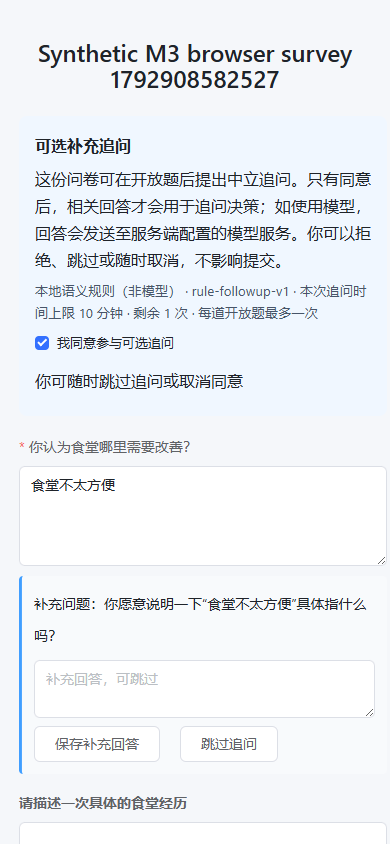
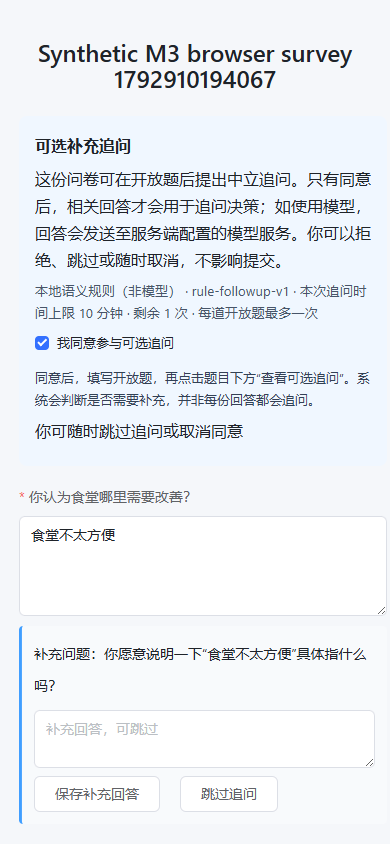
fix(tduck): clarify followup entry and explain skipped evaluations

diff --git a/tduck-vue3/src/td/generator/GenerateForm.vue b/tduck-vue3/src/td/generator/GenerateForm.vue
@@ -5,6 +5,7 @@
       <p>这份问卷可在开放题后提出中立追问。只有同意后，相关回答才会用于追问决策；如使用模型，回答会发送至服务端配置的模型服务。你可以拒绝、跳过或随时取消，不影响提交。</p>
       <small>{{providerLabel}} · 剩余 {{followupRemaining}} 次 · 每道开放题最多一次</small>
       <el-checkbox v-model="followupConsent" :disabled="!followupReady" @change="changeFollowupConsent">我同意参与可选追问</el-checkbox>
+      <p class="followup-guide">同意后，填写开放题，再点击题目下方“查看可选追问”。系统会判断是否需要补充，并非每份回答都会追问。</p>
       <p v-if="followupNotice" role="status">{{followupNotice}}</p>
     </section>
     <template v-for="(field,i) in shown" :key="field.config.formId">
@@ -15,8 +16,9 @@
         <QuestionField v-model="formModel[field.config.formId]" :models="formModel" :item="field" :form-key="formConf.formKey" :disabled="formConf.disabled"/>
         <section v-if="followupEnabled && field.typeId==='TEXTAREA' && followupAllowed.includes(field.config.formId)" class="followup-panel" :data-followup-for="field.config.formId">
           <template v-if="!followupDecisions[field.config.formId]">
-            <el-button v-if="followupConsent" :disabled="!followupReady || !String(formModel[field.config.formId]||'').trim()" :loading="followupBusy[field.config.formId]" @click="evaluateFollowup(field)">继续此题（可选追问）</el-button>
-            <small v-else>已选择只填核心题，追问不会影响提交。</small>
+            <el-button type="primary" :disabled="!followupConsent || !followupReady || !String(formModel[field.config.formId]||'').trim()" :loading="followupBusy[field.config.formId]" @click="evaluateFollowup(field)">查看可选追问</el-button>
+            <small v-if="!followupConsent" class="followup-entry-hint">如需补充问题，请先勾选上方“我同意参与可选追问”；也可直接提交核心问卷。</small>
+            <small v-else-if="!String(formModel[field.config.formId]||'').trim()" class="followup-entry-hint">先填写本题，再点击按钮查看是否需要补充。</small>
           </template>
           <template v-else-if="followupDecisions[field.config.formId].state==='ASKED'">
             <p class="followup-question">补充问题：{{followupDecisions[field.config.formId].questionText}}</p>
@@ -27,7 +29,7 @@
           <small v-else-if="followupDecisions[field.config.formId].state==='REPLIED'">补充回答已保存，原回答保持独立。</small>
           <small v-else-if="followupDecisions[field.config.formId].state==='DECLINED'">已跳过，不会再弹出同一追问。</small>
           <small v-else-if="['MODEL_FAILURE','INVALID_MODEL_OUTPUT','NO_KEY'].includes(followupDecisions[field.config.formId].reasonCode)">追问服务暂不可用，本题已跳过，不影响提交。</small>
-          <small v-else>本题不再追问，可继续填写。</small>
+          <small v-else>{{followupSkipMessage(followupDecisions[field.config.formId])}}</small>
         </section>
       </el-form-item>
     </template>
@@ -54,6 +56,10 @@ const {enabled:followupEnabled,consent:followupConsent,ready:followupReady,notic
 const resolvedOptions=reactive({})
 provide('tdResolvedOptions',resolvedOptions)
 const safe=value=>DOMPurify.sanitize(String(value||''))
+function followupSkipMessage(decision){
+  const messages={NO_CLEAR_INFORMATION_GAP:'规则模式未识别到补充方向，本次未生成追问；可继续填写。',CONCRETE_CONTEXT:'这段回答已包含具体情境，本次不再追问。',BUDGET_EXHAUSTED:'本卷追问次数已用完，本题不再追问。',TIME_BUDGET:'本次追问时间已到，本题不再追问。',RESPONDENT_DECLINED:'已按你的拒答意愿跳过本题追问。',PRIVACY_RISK:'这段回答可能含敏感信息，已跳过追问。',NO_CONSENT:'当前未同意追问，可继续填写核心问卷。'}
+  return messages[decision.reasonCode]||'本次判断无需补充，可继续填写。'
+}
 watch(()=>props.formConf.fields,fields=>{
   for(const f of fields||[]){
     const id=f.config.formId
@@ -97,6 +103,7 @@ defineExpose({formModel,submit,reset,getAnswers,validate:()=>check(visible.value
 <style scoped>
 .followup-consent{grid-column:span 24;padding:16px;margin-bottom:20px;background:#f0f7ff;border-radius:8px;line-height:1.7}
 .followup-consent p{margin:6px 0}.followup-consent small{display:block;color:#475569}.followup-consent .el-checkbox{white-space:normal;height:auto;min-height:36px}
+.followup-guide{font-size:13px;color:#334155}.followup-entry-hint{display:block;margin-top:8px;line-height:1.7}
 .followup-panel{width:100%;padding:12px;margin-top:10px;box-sizing:border-box;background:#f8fafc;border-left:3px solid #409eff;border-radius:4px}
 .followup-panel small{color:#64748b}.followup-question{margin:0 0 8px}.followup-actions{display:flex;flex-wrap:wrap;gap:8px;margin-top:8px}
 </style>

diff --git a/tduck-vue3/src/td/generator/followup.js b/tduck-vue3/src/td/generator/followup.js
@@ -39,7 +39,7 @@ export function useFollowup(props,formModel){
       const response=await client.get('/form/followup/info',{params:{formKey:conf.formKey,versionToken:conf.versionToken||''}})
       if(current!==revision||response.data?.code!==200||!response.data.data?.enabled)return
       const policy=response.data.data;enabled.value=true;allowed.value=policy.allowedQuestionIds||[];remaining.value=policy.totalBudget
-      providerLabel.value=[policy.providerInfo?.provider,policy.providerInfo?.model,`本次追问时间上限 ${Math.ceil(policy.timeBudgetSeconds/60)} 分钟`].filter(Boolean).join(' · ')
+      providerLabel.value=[policy.providerInfo?.mode==='REAL'?`真实模型：${policy.providerInfo.provider}`:policy.providerInfo?.provider,policy.providerInfo?.model,`本次追问时间上限 ${Math.ceil(policy.timeBudgetSeconds/60)} 分钟`].filter(Boolean).join(' · ')
       storageKey=followupStorageKey(conf.formKey,conf.version);capability=sessionStorage.getItem(storageKey)||''
       if(capability)applyState(await request('state'),true)
       else{

diff --git a/evidence/tduck-full/m3-visibility/README.md b/evidence/tduck-full/m3-visibility/README.md
@@ -1,0 +1,50 @@
+# M3 用户复验修复：追问入口与未生成原因
+
+日期：2026-10-25。用户反馈“没看到哪里有追问”。本轮仍为M3修复，不推进M4；本地提交为本报告所属提交，可用`git log -1 --format="%h %s" -- evidence/tduck-full/m3-visibility/README.md`查询，未推送。
+
+## 核对结果
+
+当前规则演示`RcluTkXX`已启用追问。只读取了匿名会话的同意/已用次数/动作/理由等元信息，没有导出用户回答。最近会话已同意并触发两次评估，均为`SKIP / NO_CLEAR_INFORMATION_GAP`，已用次数0；不是没有接入评估。旧页面只显示“不再追问”，未解释本地规则未识别到补充方向，入口也未说明需要逐题点击。
+
+## 修改
+
+- `GenerateForm.vue`：在顶部说明“同意→填写开放题→点击查看”的操作；开放题下始终显示“查看可选追问”，未同意时禁用并提示，不自动勾选同意、不发出决策请求。按钮使用主色突出。
+- 同文件按后端实际理由说明规则未识别到方向、具体情境、次数/时间用完、拒答等；不把未识别到方向说成回答已经充分，也不强制生成问题。
+- `followup.js`：真实模型模式明确显示“真实模型：Provider”，保留规则模式的“非模型”标签。
+- `New-FollowupDemo.mjs`：支持显式`RULE`或`LLM`参数；LLM版单独建卷并检查真实Provider配置，完整链接写入另一个忽略文件，保留旧演示和用户填写记录。
+- 新增`m3-followup-visibility.mjs`并加入`Verify-Followup.ps1`；新增真实模型演示UI验证`m3-real-demo-ui.mjs`，更新原UI回归的按钮定位及具体情境提示断言。
+
+本轮只改前端、演示/验证脚本和说明，没有后端或SQL改动，不需迁移或重启后端。Vite开发服务自动更新，旧页面可强制刷新。
+
+## 先复现、再修复的实际执行
+
+| 命令 | 成功 | 失败 | 说明 |
+|---|---:|---:|---|
+| 修复前`node scripts/tduck/m3-followup-visibility.mjs` | 0 | 1 | 未找到操作指引，基线保存在本地忽略目录 |
+| 修复后同命令 | 5 | 0 | 可发现入口、同意前不发送、明确规则跳过原因、不扣次数、刷新不重复调用、仍能显示实际问题 |
+| `node scripts/tduck/New-FollowupDemo.mjs LLM` | 1 | 0 | 独立创建真实模型演示，旧卷未停止/修改 |
+| `node scripts/tduck/m3-real-demo-ui.mjs` | 2 | 0 | 真模型生成可答追问，并可跳过；单独合成受访会话，未操作用户标签页 |
+| `node scripts/tduck/m3-ui.mjs` | 6 | 0 | 设置/发布、拒绝AI、跳过/刷新/回应、网络失败不阻塞提交、审计与无未捕获错误 |
+| `cd tduck-vue3; npm.cmd run build` | 1 | 0 | 32.61秒；沿用已有大包/旧样式弃用提示 |
+
+真实模型演示：`NqqlwySZ` V1，`LLM`；测试输入为合成文本“食堂不太方便”，Provider“本机推理网关”、模型标识`group/group`，实际返回`CLARIFY / ASKED / AMBIGUOUS`，4411ms。问题显示在第四题下方，可填写补充回答或跳过。模型仅由服务端调用，服务端中立模板使用可定位原文；未使用Mock响应冒充真实调用。
+
+证据：本目录`results.json`（5项）、`real-demo-results.json`（2项）；原6项UI结果位于`../m3/ui-results.json`。没有重复宣称本轮重跑旧报告的45项Java测试。
+
+实际截图：
+
+- `D:/LcProject/evidence/tduck-full/m3-visibility/01-skip-explained.png`
+- `D:/LcProject/evidence/tduck-full/m3-visibility/02-followup-visible.png`
+- `D:/LcProject/evidence/tduck-full/m3-visibility/03-real-model-question.png`
+
+日志：`.local/tduck-full-audit/m3-visibility-{before,after,build,existing-ui}.log`及`m3-real-demo-ui.log`。本轮仍使用5180→8997。
+
+## 用户复验
+
+完整真实模型版链接保存在`.local/tduck-full-audit/m3-demo-real.json`，不提交Git。另建可重复演示：`node scripts/tduck/New-FollowupDemo.mjs LLM`。
+
+1. 打开真实模型版，勾选“我同意参与可选追问”。
+2. 在第四题“你认为食堂哪里需要改善？”试填“食堂不太方便”。
+3. 点击该题下“查看可选追问”，等待模型判断，补充问题显示在该题下。
+
+不同回答可能被判断为无需追问；规则词表覆盖有限，真实模型也不保证每次都提问。原规则演示及原会话评估记录保持不变；已经完成的单题评估不会因修改原回答而重复触发或扣减预算。

diff --git a/evidence/M3.md b/evidence/M3.md
@@ -1,5 +1,7 @@
 # M3｜单人自适应追问交付与复验
 
+用户后续复验更新：针对“看不到追问”，已补操作指引、突出“查看可选追问”入口并解释具体跳过原因；另建真实模型演示，保留原规则问卷/填写记录。见[本轮可见性修复报告](tduck-full/m3-visibility/README.md)。下方45项等为原阶段交付记录，本轮新增验证单独列示。
+
 日期：2026-10-25（America/New_York）。基于用户确认M2通过并授权下一阶段，完成M3；**自动自检通过，等待人工验收，不进入M4**。本地提交为本报告所属提交，`git log -1 --format="%h %s" -- evidence/M3.md`可查，未推送。日常入口仍为5180，隔离后端8997、MySQL库`tduck_vue3_dev`，原8890/8999、8998及旧工程保留。
 
 ## 交付行为
@@ -78,7 +80,7 @@ cd D:\LcProject
 
 终端B：`cd D:\LcProject\tduck-vue3; npm.cmd run dev`。
 
-验收：问卷编辑页左侧“AI追问”→配置目标、允许开放题、次数→保存→手动发布；已收集中的问卷先停收，再改草稿并发布新版本。公开填写默认不勾选追问，同意后在开放题下点击“继续此题”。用“食堂不太方便”“六点二楼排队十五分钟，菜卖完”“我朋友都不去，所以我也没动力去”验证规则模式；试跳过、刷新和提交。切换“模型辅助”需重新发布，该模式已真实连接验证。
+验收：问卷编辑页左侧“AI追问”→配置目标、允许开放题、次数→保存→手动发布；已收集中的问卷先停收，再改草稿并发布新版本。公开填写默认不勾选追问，同意后在开放题下点击“查看可选追问”。用“食堂不太方便”“六点二楼排队十五分钟，菜卖完”“我朋友都不去，所以我也没动力去”验证规则模式；试跳过、刷新和提交。切换“模型辅助”需重新发布，该模式已真实连接验证。
 
 合成演示已发布：`formKey=RcluTkXX`、V1，6题含四种核心题型，3道开放题允许追问，全卷2次。**演示默认规则模式，明确非模型**；完整链接在忽略的`.local/tduck-full-audit/m3-demo.json`，未写入Git。`node scripts/tduck/New-FollowupDemo.mjs`可另建独立合成样例，不修改原问卷。临时8996窗口不再用于日常5180，可关闭。
 

diff --git a/tduck-vue3/README.md b/tduck-vue3/README.md
@@ -1,5 +1,7 @@
 # TDuck Vue 3 本地迁移版
 
+M3用户复验修复：追问需先同意、填写开放题、再点击该题下“查看可选追问”；入口和具体跳过原因现已明确显示。新增独立真实模型版演示（`node scripts/tduck/New-FollowupDemo.mjs LLM`），保留原规则演示与用户记录。见[修复及实测](../evidence/tduck-full/m3-visibility/README.md)。
+
 2026-10-25 M3 可选追问：问卷左侧新增“AI追问”，选择允许追问的开放题、调查目标、全卷/每题/时间预算及本地规则或模型辅助策略。设置随发布版本冻结；受访者默认不同意追问，可同意、拒绝、跳过，原回答/追问/回应独立入库。预算与决策可刷新恢复并经真实后端重启验证。模型辅助实际连接本机推理网关`group/group`，规则模式明确标注非模型。日常仍使用5180→8997；当前停在M3验收，不进入M4。见[M3完整报告](../evidence/M3.md)。
 
 M3新增迁移：根目录运行`.\scripts\tduck\Apply-FollowupMigration.ps1`（新建5表，可重复）；后端重建仍用`Build-FullBackend.ps1`，现改为clean package防止旧依赖进入运行包。完整M3回归：`.\scripts\tduck\Verify-Followup.ps1 -RealAI`，需5180/8997及本机合成验收配置已运行。新机器或服务关闭时按下方日常启动步骤操作，不要重复启动已占用端口的实例。
